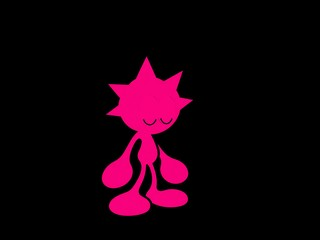
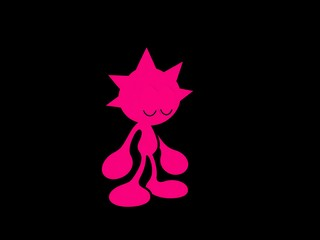
Raise the idle character a touch on home.
Generated with [Devin](https://devin.ai)

Changed region(s): [[0.3125, 0.2042, 0.625, 0.9042]]

diff --git a/friend/gizmo_friend/static/oddity-device.css b/friend/gizmo_friend/static/oddity-device.css
@@ -18,7 +18,7 @@ main{padding:0 16px}.simulator{width:min(650px,100%,calc((100svh - 180px)*1145/1
 .device-talk:active{cursor:grabbing}.device-talk:focus-visible{outline:2px solid #ffb5da;outline-offset:4px}
 .device-talk:before{content:'';position:absolute;inset:-10% -55% -10% -90%}
 .device-up:before,.device-down:before,.device-select:before{content:'';position:absolute;inset:0 -12px 0 -3px}
-.device .friend{position:absolute;left:29%;top:30%;width:34%;height:50%;display:grid;place-items:center;pointer-events:none}.device .friend img{height:100%;width:auto;object-fit:contain}
+.device .friend{position:absolute;left:29%;top:26%;width:34%;height:50%;display:grid;place-items:center;pointer-events:none}.device .friend img{height:100%;width:auto;object-fit:contain}
 .device .caption,.device .stage:not(.has-scene) .caption{font-size:3.6cqw;bottom:10%;left:8%;right:8%;line-height:1.25;max-height:34%}
 .device .listening,.device .stage-top,.device .stage-bottom{display:none}
 .device .play-blocked{font-size:3.2cqw;padding:2cqw 2.8cqw}

diff --git a/friend/gizmo_friend/static/oddity.html b/friend/gizmo_friend/static/oddity.html
@@ -7,7 +7,7 @@
   <link rel="icon" href="data:,">
   <link rel="stylesheet" href="/static/oddity-boot.css?v=gate14">
   <link rel="stylesheet" href="/static/oddity.css">
-  <link rel="stylesheet" href="/static/oddity-device.css?v=gate47">
+  <link rel="stylesheet" href="/static/oddity-device.css?v=gate48">
   <link rel="stylesheet" href="/static/oddity-experience.css">
   <link rel="preload" as="image" href="/static/device-reference-ptt-pressed.png">
   <link rel="preload" as="image" href="/static/oddity-character-half.png?v=char2">

diff --git a/body/assets/export_bundle.py b/body/assets/export_bundle.py
@@ -159,7 +159,7 @@ def home_base(source: Path, size: tuple[int, int]) -> Image.Image:
     character.thumbnail(box, Image.Resampling.LANCZOS)
     canvas = Image.new("RGBA", size, (0, 0, 0, 255))
     x = (width - character.width) // 2 - round(width * 0.04)
-    y = round((height - character.height) / 2 + height * 0.05)
+    y = round((height - character.height) / 2 + height * 0.015)
     canvas.alpha_composite(character, (x, y))
     return canvas
 
